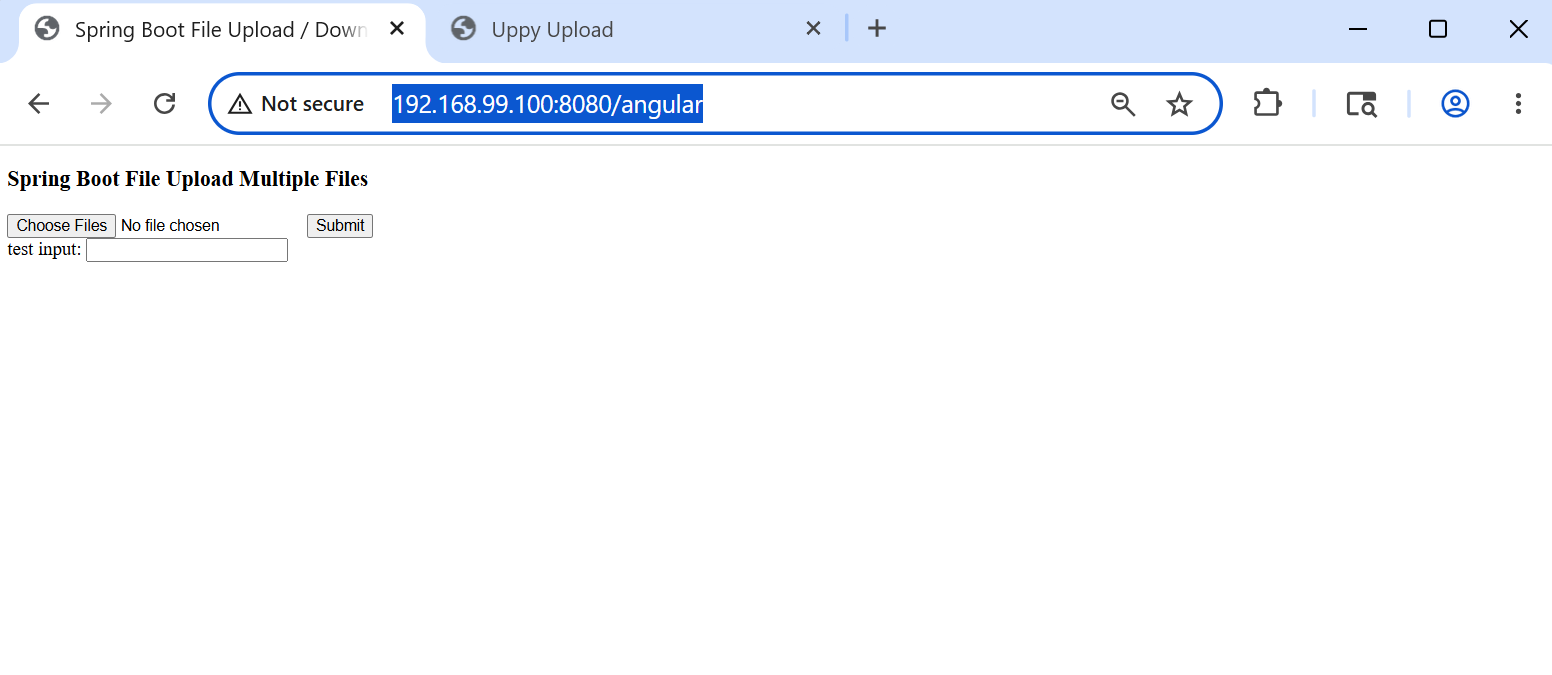
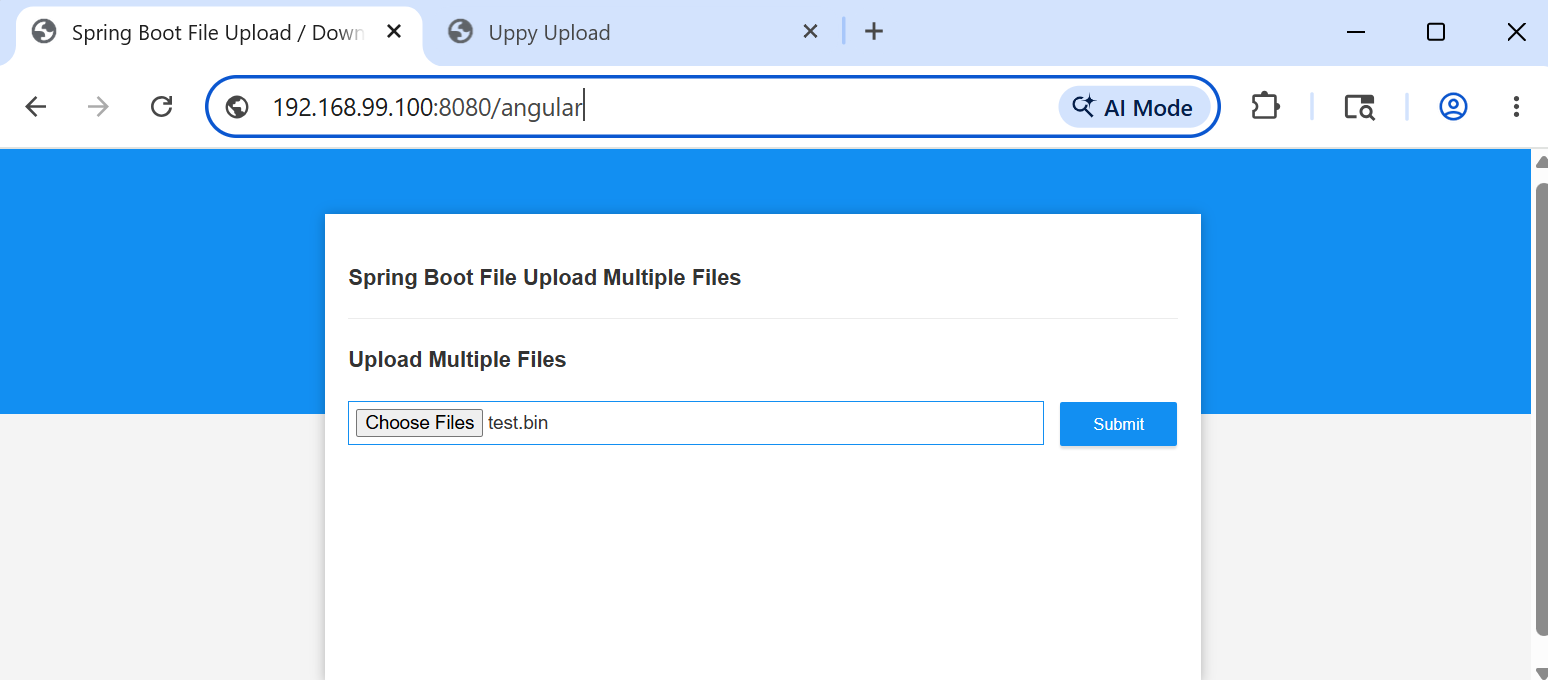
intermediate reivsion - restored upstrem project styles

diff --git a/basic-uppy-react/backend/src/main/resources/static/css/main.css b/basic-uppy-react/backend/src/main/resources/static/css/main.css
@@ -1,0 +1,132 @@
+* {
+    -webkit-box-sizing: border-box;
+    -moz-box-sizing: border-box;
+    box-sizing: border-box;
+}
+
+body {
+    margin: 0;
+    padding: 0;
+    font-weight: 400;
+    font-family: "Helvetica Neue", Helvetica, Arial, sans-serif;
+    font-size: 1rem;
+    line-height: 1.58;
+    color: #333;
+    background-color: #f4f4f4;
+}
+
+body:before {
+    height: 50%;
+    width: 100%;
+    position: absolute;
+    top: 0;
+    left: 0;
+    background: #128ff2;
+    content: "";
+    z-index: 0;
+}
+
+.clearfix:after {
+    display: block;
+    content: "";
+    clear: both;
+}
+
+
+h1, h2, h3, h4, h5, h6 {
+    margin-top: 20px;
+    margin-bottom: 20px;
+}
+
+h1 {
+    font-size: 1.7em;
+}
+
+a {
+    color: #128ff2;
+}
+
+button {
+    box-shadow: none;
+    border: 1px solid transparent;
+    font-size: 14px;
+    outline: none;
+    line-height: 100%;
+    white-space: nowrap;
+    vertical-align: middle;
+    padding: 0.6rem 1rem;
+    border-radius: 2px;
+    transition: all 0.2s ease-in-out;
+    cursor: pointer;
+    min-height: 38px;
+}
+
+button.primary {
+    background-color: #128ff2;
+    box-shadow: 0 2px 2px 0 rgba(0, 0, 0, 0.12);
+    color: #fff;
+}
+
+input {
+    font-size: 1rem;
+}
+
+input[type="file"] {
+    border: 1px solid #128ff2;
+    padding: 6px;
+    max-width: 100%;
+}
+
+.file-input {
+    width: 100%;
+}
+
+.submit-btn {
+    display: block;
+    margin-top: 15px;
+    min-width: 100px;
+}
+
+@media screen and (min-width: 500px) {
+    .file-input {
+        width: calc(100% - 115px);
+    }
+
+    .submit-btn {
+        display: inline-block;
+        margin-top: 0;
+        margin-left: 10px;
+    }
+}
+
+
+.upload-container {
+      max-width: 750px;
+      margin-left: auto;
+      margin-right: auto;
+      background-color: #fff;
+      box-shadow: 0 1px 11px rgba(0, 0, 0, 0.27);
+      margin-top: 60px;
+      min-height: 400px;
+      position: relative;
+      padding: 20px;
+}
+
+.upload-header {
+    border-bottom: 1px solid #ececec;
+}
+
+.upload-header h2 {
+    font-weight: 500;
+}
+
+.single-upload {
+    padding-bottom: 20px;
+    margin-bottom: 20px;
+    border-bottom: 1px solid #e8e8e8;
+}
+
+.upload-response {
+    overflow-x: hidden;
+    word-break: break-all;
+}

diff --git a/basic-uppy-react/backend/src/main/resources/templates/upload.html b/basic-uppy-react/backend/src/main/resources/templates/upload.html
@@ -5,32 +5,45 @@
   <meta name="viewport" content="width=device-width, initial-scale=1.0, minimum-scale=1.0">
   <title>Spring Boot File Upload / Download Rest API Example</title>
   <meta charset="utf-8" />
-  <style type="text/css">
-  table tr th, td {
-    text-transform: capitalize;
-    text-align: center;
-  }
-  .hidden {
-    visibility: hidden;
-    opacity: 0;
-  }
-  </style>
+  <link rel="stylesheet" href="/css/main.css" />
   </head>
   <body>
-    <div>
-      <h3>Spring Boot File Upload Multiple Files</h3>
-      <form id="multipleUploadForm" name="multipleUploadForm">
-        <input id="multipleFileUploadInput" type="file" name="files" class="file-input" multiple required />
-        <button type="submit" class="primary submit-btn">Submit</button>
-        <div id ="input" class="hidden">test input: <input id="special" type="text"></div>
-      </form>
-      <div class="upload-response">
-        <div id="multipleFileUploadError"></div>
-        <div id="multipleFileUploadSuccess"></div>
-      </div>
-    </div>
-    <script th:src="@{/js/main.js}"></script>
-    <div class="hidden">debug: <span id="debug" th:text="${debug}"></span></div>
-  </body>
+        <noscript>
+            <h2>Sorry! Your browser doesn't support Javascript</h2>
+        </noscript>
+        <div class="upload-container">
+            <div class="upload-header">
+              <h3>Spring Boot File Upload Multiple Files</h3>
+            </div>
+            <div class="upload-content">
+		<!--    
+                <div class="single-upload">
+                    <h3>Upload Single File</h3>
+                    <form id="singleUploadForm" name="singleUploadForm">
+                        <input id="singleFileUploadInput" type="file" name="file" class="file-input" required />
+                        <button type="submit" class="primary submit-btn">Submit</button>
+                    </form>
+                    <div class="upload-response">
+                        <div id="singleFileUploadError"></div>
+                        <div id="singleFileUploadSuccess"></div>
+                    </div>
+                </div>
+		-->
+                <div class="multiple-upload">
+                    <h3>Upload Multiple Files</h3>
+                    <form id="multipleUploadForm" name="multipleUploadForm">
+                        <input id="multipleFileUploadInput" type="file" name="files" class="file-input" multiple required />
+                        <button type="submit" class="primary submit-btn">Submit</button>
+                    </form>
+                    <div class="upload-response">
+                        <div id="multipleFileUploadError"></div>
+                        <div id="multipleFileUploadSuccess"></div>
+                    </div>
+                </div>
+            </div>
+        </div>
+        <script th:src="@{/js/main.js}"></script>
+        <div class="hidden">debug: <span id="debug" th:text="${debug}"></span></div>
+    </body>  
 </html>
 